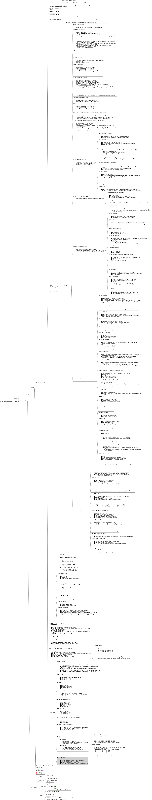
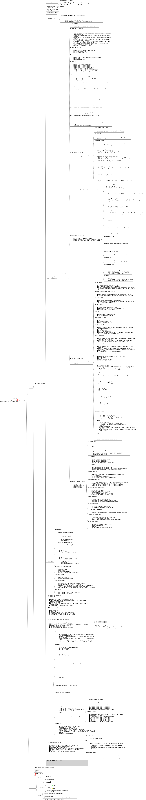
extended ATPL mind map

diff --git a/ATPL/ATPL.mm b/ATPL/ATPL.mm
@@ -2579,8 +2579,7 @@
       </li>
     </ul>
   </body>
-</html>
-</richcontent>
+</html></richcontent>
 </node>
 <node CREATED="1570048813514" ID="ID_1352143971" MODIFIED="1570050724221">
 <richcontent TYPE="NODE"><html>
@@ -2624,7 +2623,7 @@
 </html></richcontent>
 </node>
 </node>
-<node CREATED="1570119212294" ID="ID_1672773467" MODIFIED="1570120578511">
+<node CREATED="1570119212294" ID="ID_1672773467" MODIFIED="1570128095448">
 <richcontent TYPE="NODE"><html>
   <head>
     
@@ -2649,11 +2648,158 @@
       <li>
         120KGS / 60 = 2NM/min, 3deg * 2NM/min * 100 = 600ft/min
       </li>
+      <li>
+        Example CZBB VOR 07: FAF 2000ft, MDA 420ft, 5.1NM, 2000ft - 420ft = 1580ft, 1580ft / 5.1NM = 310 ft/NM -&gt; 3deg, 3 * 2 * 100 = 600ft/min (use 700-800ft/min to be at MDA before MAP)
+      </li>
+      <li>
+        Check GPS GS for correct approach speed
+      </li>
     </ul>
   </body>
 </html>
 </richcontent>
 </node>
+</node>
+<node CREATED="1570128169387" ID="ID_377019714" MODIFIED="1570129083887">
+<richcontent TYPE="NODE"><html>
+  <head>
+    
+  </head>
+  <body>
+    <p>
+      1.20 Canadian Airspace Structure
+    </p>
+    <p>
+      
+    </p>
+    <ul>
+      <li>
+        low-level airspace below, high-level airspace at and above 18000ft
+      </li>
+      <li>
+        CZ radius 7, 5 or 3NM, 3000ft AAE vertical extension
+      </li>
+      <li>
+        CAE based at 2200ft AGL to 18000ft ASL
+      </li>
+      <li>
+        TCA radius 45NM based at 9500ft, 35NM based at 2200ft, 12NM based at 1200ft
+      </li>
+      <li>
+        TA radius 15NM based at 700AGL up to overlying controlled airspace
+      </li>
+      <li>
+        A 18000ft ASL to FL600
+      </li>
+      <li>
+        B the higher of above 12500ft ASL or MEA to below 18000ft
+      </li>
+    </ul>
+  </body>
+</html>
+</richcontent>
+<node CREATED="1570129088326" ID="ID_1540591317" MODIFIED="1570129127234">
+<richcontent TYPE="NODE"><html>
+  <head>
+    
+  </head>
+  <body>
+    <p>
+      Forest Fire Restrictions
+    </p>
+    <p>
+      
+    </p>
+    <ul>
+      <li>
+        radius 5NM up to 3000ft AGL
+      </li>
+    </ul>
+  </body>
+</html>
+</richcontent>
+</node>
+<node CREATED="1570129141480" ID="ID_788719889" MODIFIED="1570129579498">
+<richcontent TYPE="NODE"><html>
+  <head>
+    
+  </head>
+  <body>
+    <p>
+      Airways and Air Routes
+    </p>
+    <p>
+      
+    </p>
+    <ul>
+      <li>
+        low-level airways: controlled airspace from 2200ft AGL up to below 18000ft ASL
+
+        <ul>
+          <li>
+            VHF airways: 4NM wide from centerline (8NM), 4.5deg from fix beyond width intersection
+          </li>
+          <li>
+            LF/MF airways: 4.34NM wide from centerline (8.68NM), 5deg from fix beyond width intersection
+          </li>
+        </ul>
+      </li>
+      <li>
+        air routes: same dimensions as airways in uncontrolled airspace from surface
+      </li>
+    </ul>
+  </body>
+</html>
+</richcontent>
+</node>
+<node CREATED="1570129659132" ID="ID_1425881350" MODIFIED="1570130163281">
+<richcontent TYPE="NODE"><html>
+  <head>
+    
+  </head>
+  <body>
+    <p>
+      T-Routes and L-Routes
+    </p>
+    <p>
+      
+    </p>
+    <ul>
+      <li>
+        T-Route: low-level controlled fixed RNAV, 4NM primary, 2NM secondary obstacle protection, 10NM wide from centerline (20NM) (4NM MOCA + 2NM 1000ft ROC + 4NM MEA or 2200ft AGL) - black dashed
+      </li>
+      <li>
+        L-Route: uncontrolled fixed RNAV, 6NM MOCA from centerline (12NM) - green dashed
+      </li>
+    </ul>
+  </body>
+</html>
+</richcontent>
+</node>
+</node>
+<node CREATED="1570131692655" ID="ID_1788939260" MODIFIED="1570131913054">
+<richcontent TYPE="NODE"><html>
+  <head>
+    
+  </head>
+  <body>
+    <p>
+      1.20A International Flight Procedures
+    </p>
+    <p>
+      
+    </p>
+    <ul>
+      <li>
+        CPB to be notified 60 minutes before flight via eAPIS
+      </li>
+      <li>
+        Customs 1-888-226-7277 at least 2 hours but not more than 48 hours before arrival in Canada
+      </li>
+    </ul>
+  </body>
+</html>
+</richcontent>
 </node>
 </node>
 <node CREATED="1568173327294" ID="ID_1056315969" MODIFIED="1568173426446" TEXT="Aircraft, Power Plants, Propellers and Systems"/>
